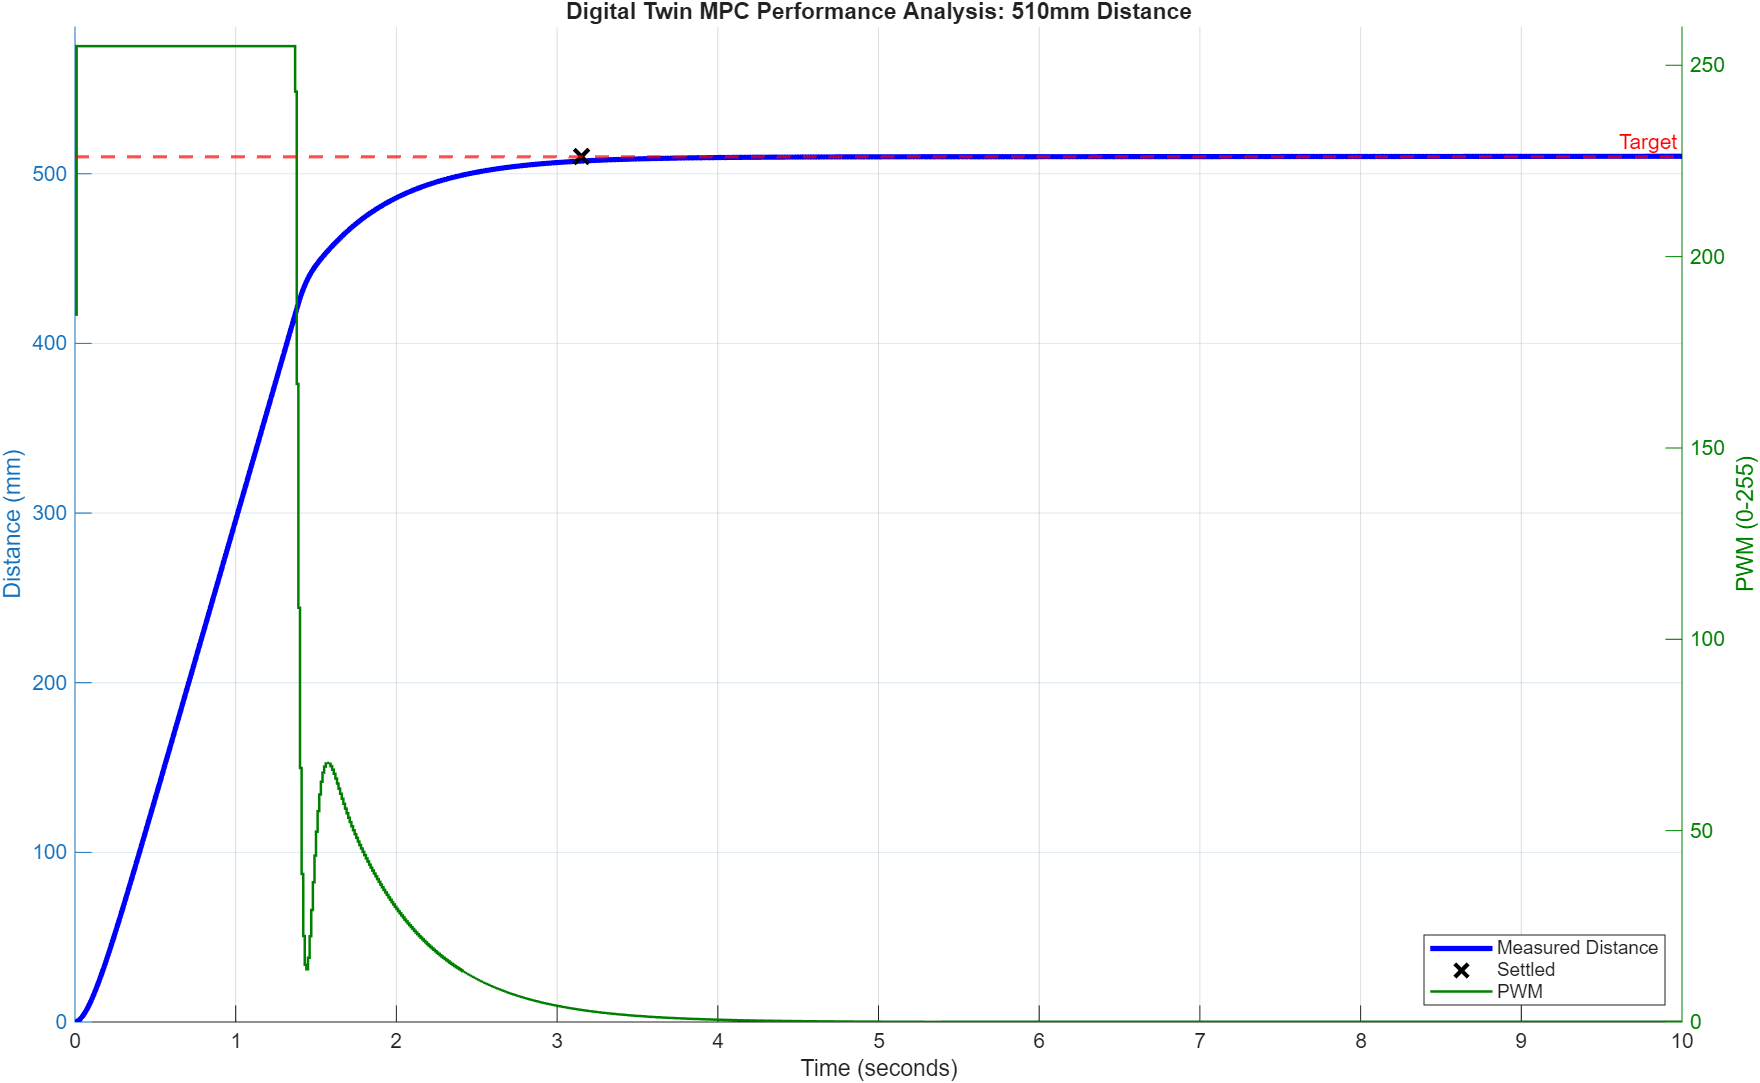
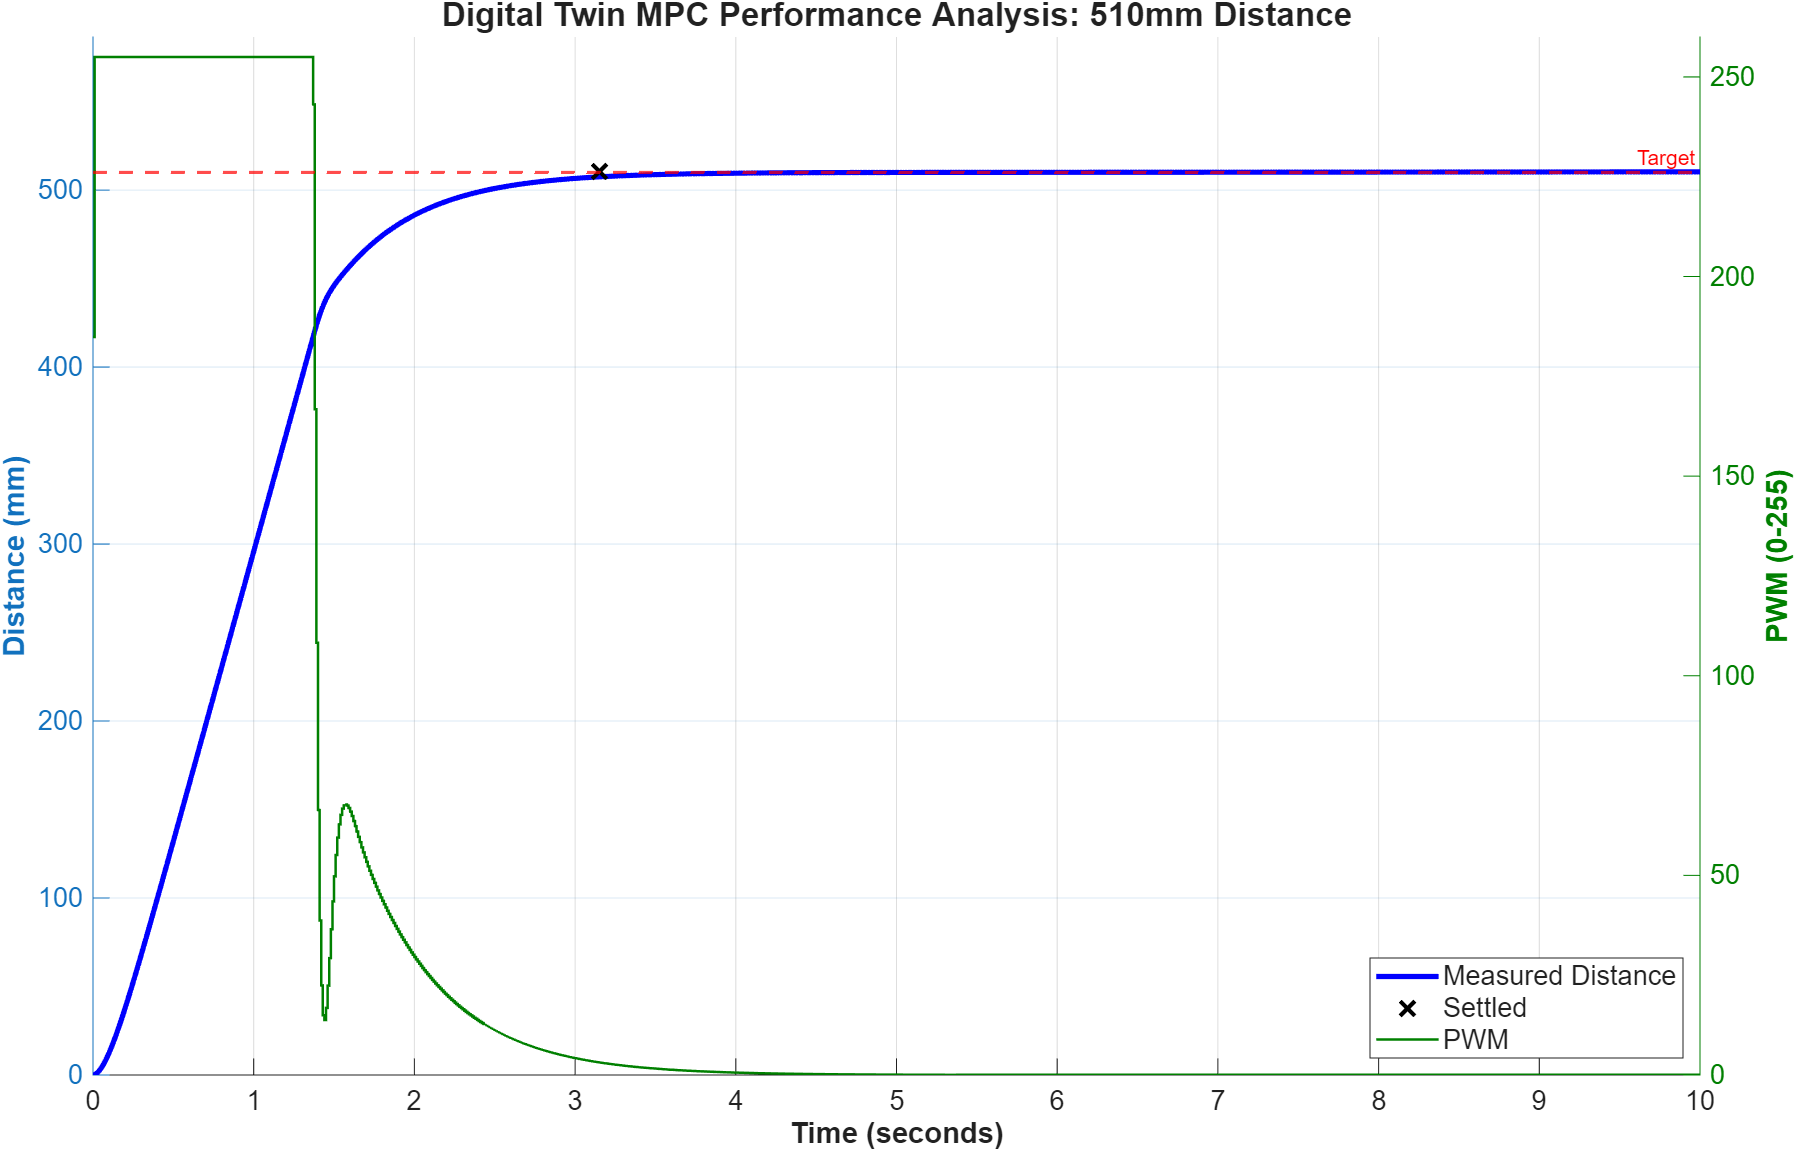
Updated font size in pictures
Added higher font size (can be adjusted) to the MATLAB scripts for generating the plots. also updated the pictures from

diff --git a/Hardware/csv2data.m b/Hardware/csv2data.m
@@ -2,8 +2,8 @@
 clear; clc; close all;
 
 % --- MANUAL CONFIGURATION ---
-filename = 'HW_MPC_510.csv';  % <--- Change this for each run
-target_dist = 510;             % <--- Change this to match (11, 510, or 1010)
+filename = 'HW_MPC_1010.csv';  % <--- Change this for each run
+target_dist = 1010;             % <--- Change this to match (11, 510, or 1010)
 % -----------------------------
 
 if ~isfile(filename)
@@ -16,6 +16,7 @@ t = data.Timestamp;
 pwm = data.PWM;
 dist = data.Distance_mm;
 signal = data.Signal_995;
+
 dt = mean(diff(t)); 
 
 % Calculate Performance Metrics
@@ -31,6 +32,7 @@ end
 % Settling Time (Within 0.5% of Target and stays there)
 tolerance = 0.005 * target_dist;
 idx_outside = find(abs(dist - target_dist) > tolerance, 1, 'last');
+
 if isempty(idx_outside)
     settling_time = t(1); 
 elseif idx_outside == length(t)
@@ -61,20 +63,25 @@ fprintf('==========================================\n');
 figure('Color', 'w', 'Name', ['Analysis: ', filename]);
 hold on; grid on;
 
+% Get current axes and increase the base font size for the tick marks
+ax = gca;
+ax.FontSize = 13; % <--- Increases numbers on the X and Y axes
+
 % Left Y-Axis: Distance
 yyaxis left
 plot(t, dist, 'b-', 'LineWidth', 2.5, 'DisplayName', 'Measured Distance');
 yline(target_dist, 'r--', 'Target', 'LineWidth', 1.5, 'HandleVisibility', 'off');
-ylabel('Distance (mm)');
+% Increased font size and made bold for readability
+ylabel('Distance (mm)', 'FontSize', 14, 'FontWeight', 'bold');
 ylim([0, target_dist * 1.15]); 
 
 % Right Y-Axis: PWM
 yyaxis right
 stairs(t, pwm, 'Color', [0, 0.5, 0, 0.4], 'LineWidth', 1.2, 'DisplayName', 'PWM');
-ylabel('PWM (0-255)');
+% Increased font size and made bold
+ylabel('PWM (0-255)', 'FontSize', 14, 'FontWeight', 'bold');
 ylim([0, 260]);
-ax = gca;
-ax.YColor = [0, 0.5, 0];
+ax.YColor = [0, 0.5, 0]; % Needs to stay below the ax variable declaration
 
 % Annotate Settling Point if valid
 if ~isinf(settling_time)
@@ -82,8 +89,9 @@ if ~isinf(settling_time)
     plot(settling_time, final_val, 'kx', 'MarkerSize', 10, 'LineWidth', 2, 'DisplayName', 'Settled');
 end
 
-xlabel('Time (seconds)');
-title('Full Hardware MPC Performance Analysis: 11mm Distance');
-legend('Location', 'southeast');
+% Increased font size for X label, Title, and Legend
+xlabel('Time (seconds)', 'FontSize', 14, 'FontWeight', 'bold');
+title('Full Hardware MPC Performance Analysis: 1010mm Distance', 'FontSize', 16, 'FontWeight', 'bold');
+legend('Location', 'southeast', 'FontSize', 13);
+
 hold off;
-drawnow;

diff --git a/HIL/csvplotting.m b/HIL/csvplotting.m
@@ -2,8 +2,8 @@
 clear; clc; close all;
 
 % --- MANUAL CONFIGURATION ---
-filename = 'HIL_MPC_11.csv';  % <--- Change this for each run
-target_dist = 11;             % <--- Change this to match (11, 510, or 1010)
+filename = 'HIL_MPC_1010.csv';  % <--- Change this for each run
+target_dist = 1010;             % <--- Change this to match (11, 510, or 1010)
 % -----------------------------
 
 if ~isfile(filename)
@@ -16,6 +16,7 @@ t = data.Timestamp;
 pwm = data.PWM;
 dist = data.Distance_mm;
 signal = data.Signal_995;
+
 dt = mean(diff(t)); 
 
 % Calculate Performance Metrics
@@ -31,6 +32,7 @@ end
 % Settling Time (Within 0.5% of Target and stays there)
 tolerance = 0.005 * target_dist;
 idx_outside = find(abs(dist - target_dist) > tolerance, 1, 'last');
+
 if isempty(idx_outside)
     settling_time = t(1); 
 elseif idx_outside == length(t)
@@ -61,20 +63,25 @@ fprintf('==========================================\n');
 figure('Color', 'w', 'Name', ['Analysis: ', filename]);
 hold on; grid on;
 
+% Get current axes and increase the base font size for the tick marks
+ax = gca;
+ax.FontSize = 13; % <--- Increases numbers on the X and Y axes
+
 % Left Y-Axis: Distance
 yyaxis left
 plot(t, dist, 'b-', 'LineWidth', 2.5, 'DisplayName', 'Measured Distance');
 yline(target_dist, 'r--', 'Target', 'LineWidth', 1.5, 'HandleVisibility', 'off');
-ylabel('Distance (mm)');
+% Increased font size and made bold for readability
+ylabel('Distance (mm)', 'FontSize', 14, 'FontWeight', 'bold');
 ylim([0, target_dist * 1.15]); 
 
 % Right Y-Axis: PWM
 yyaxis right
 stairs(t, pwm, 'Color', [0, 0.5, 0, 0.4], 'LineWidth', 1.2, 'DisplayName', 'PWM');
-ylabel('PWM (0-255)');
+% Increased font size and made bold
+ylabel('PWM (0-255)', 'FontSize', 14, 'FontWeight', 'bold');
 ylim([0, 260]);
-ax = gca;
-ax.YColor = [0, 0.5, 0];
+ax.YColor = [0, 0.5, 0]; % Needs to stay below the ax variable declaration
 
 % Annotate Settling Point if valid
 if ~isinf(settling_time)
@@ -82,8 +89,9 @@ if ~isinf(settling_time)
     plot(settling_time, final_val, 'kx', 'MarkerSize', 10, 'LineWidth', 2, 'DisplayName', 'Settled');
 end
 
-xlabel('Time (seconds)');
-title('HIL MPC Performance Analysis: 1010mm Distance');
-legend('Location', 'southeast');
+% Increased font size for X label, Title, and Legend
+xlabel('Time (seconds)', 'FontSize', 14, 'FontWeight', 'bold');
+title('HIL MPC Performance Analysis: 1010mm Distance', 'FontSize', 16, 'FontWeight', 'bold');
+legend('Location', 'southeast', 'FontSize', 13);
+
 hold off;
-drawnow;

diff --git a/Digital Twin/csv2stats.m b/Digital Twin/csv2stats.m
@@ -2,7 +2,7 @@
 clear; clc; close all;
 
 % --- MANUAL CONFIGURATION ---
-filename = 'PID_results_1010.csv';  % <--- Change this for each run
+filename = 'MPC_results_1010.csv';  % <--- Change this for each run
 target_dist = 1010;             % <--- Change this to match (11, 510, or 1010)
 % -----------------------------
 
@@ -16,6 +16,7 @@ t = data.Timestamp;
 pwm = data.PWM;
 dist = data.Distance_mm;
 signal = data.Signal_995;
+
 dt = mean(diff(t)); 
 
 % Calculate Performance Metrics
@@ -31,6 +32,7 @@ end
 % Settling Time (Within 0.5% of Target and stays there)
 tolerance = 0.005 * target_dist;
 idx_outside = find(abs(dist - target_dist) > tolerance, 1, 'last');
+
 if isempty(idx_outside)
     settling_time = t(1); 
 elseif idx_outside == length(t)
@@ -61,20 +63,25 @@ fprintf('==========================================\n');
 figure('Color', 'w', 'Name', ['Analysis: ', filename]);
 hold on; grid on;
 
+% Get current axes and increase the base font size for the tick marks
+ax = gca;
+ax.FontSize = 13; % <--- Increases numbers on the X and Y axes
+
 % Left Y-Axis: Distance
 yyaxis left
 plot(t, dist, 'b-', 'LineWidth', 2.5, 'DisplayName', 'Measured Distance');
 yline(target_dist, 'r--', 'Target', 'LineWidth', 1.5, 'HandleVisibility', 'off');
-ylabel('Distance (mm)');
+% Increased font size and made bold for readability
+ylabel('Distance (mm)', 'FontSize', 14, 'FontWeight', 'bold');
 ylim([0, target_dist * 1.15]); 
 
 % Right Y-Axis: PWM
 yyaxis right
 stairs(t, pwm, 'Color', [0, 0.5, 0, 0.4], 'LineWidth', 1.2, 'DisplayName', 'PWM');
-ylabel('PWM (0-255)');
+% Increased font size and made bold
+ylabel('PWM (0-255)', 'FontSize', 14, 'FontWeight', 'bold');
 ylim([0, 260]);
-ax = gca;
-ax.YColor = [0, 0.5, 0];
+ax.YColor = [0, 0.5, 0]; % Needs to stay below the ax variable declaration
 
 % Annotate Settling Point if valid
 if ~isinf(settling_time)
@@ -82,7 +89,9 @@ if ~isinf(settling_time)
     plot(settling_time, final_val, 'kx', 'MarkerSize', 10, 'LineWidth', 2, 'DisplayName', 'Settled');
 end
 
-xlabel('Time (seconds)');
-title('Digital Twin PID Performance Analysis: 1010mm Distance');
-legend('Location', 'southeast');
+% Increased font size for X label, Title, and Legend
+xlabel('Time (seconds)', 'FontSize', 14, 'FontWeight', 'bold');
+title('Digital Twin MPC Performance Analysis: 1010mm Distance', 'FontSize', 16, 'FontWeight', 'bold');
+legend('Location', 'southeast', 'FontSize', 13);
+
 hold off;
